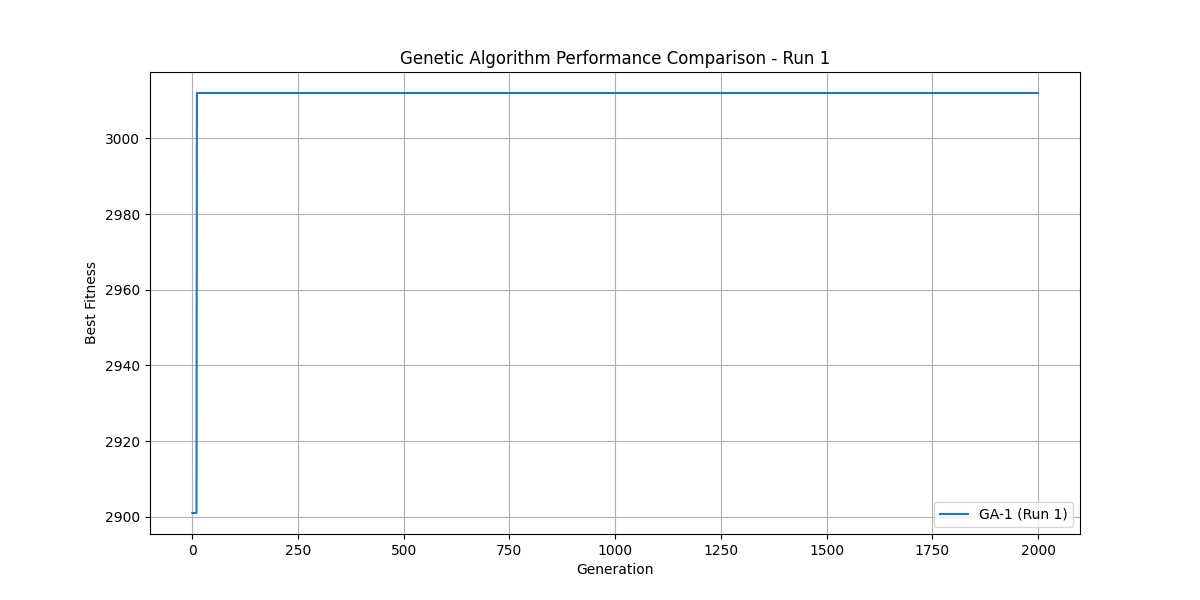
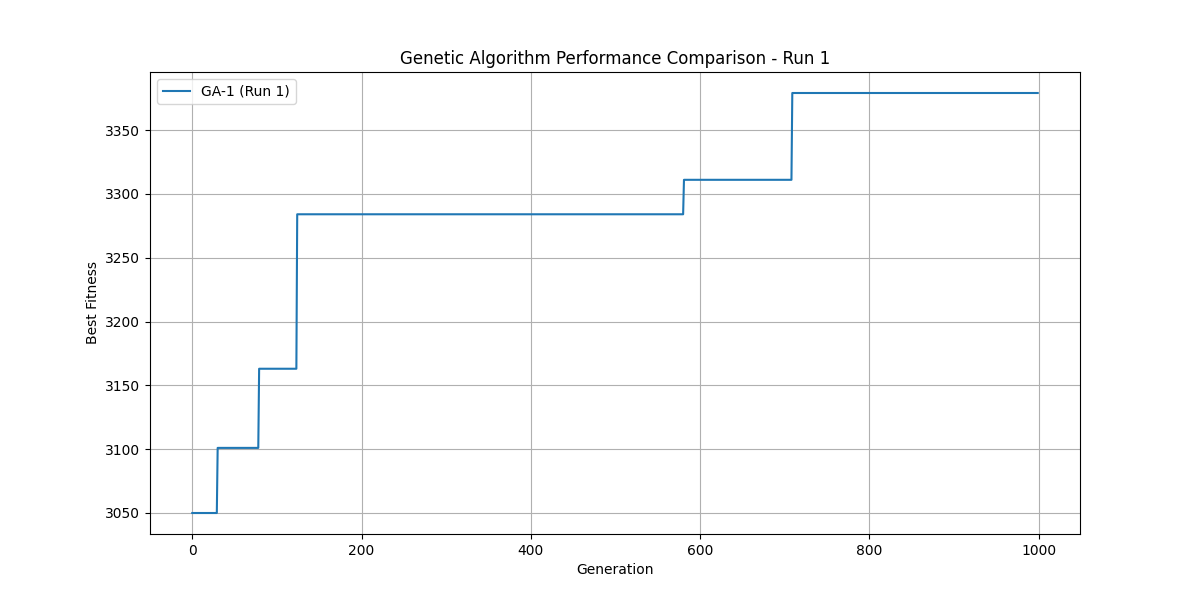
updated the mutation

diff --git a/genetic_algorithm.py b/genetic_algorithm.py
@@ -88,10 +88,8 @@ class GeneticAlgorithm:
     def mutate(self, solution: Tuple[List[int], List[int]]) -> Tuple[List[int], List[int]]:
         route, items = solution
         if random.random() < self.mutation_rate:
-            i, j = random.sample(range(len(route)), 2)
-            route[i], route[j] = route[j], route[i]
+            pass
         for i in range(len(items)):
             if random.random() < self.mutation_rate:
                 items[i] = 1 - items[i]
-        # print("final route",route)
         return route, items
